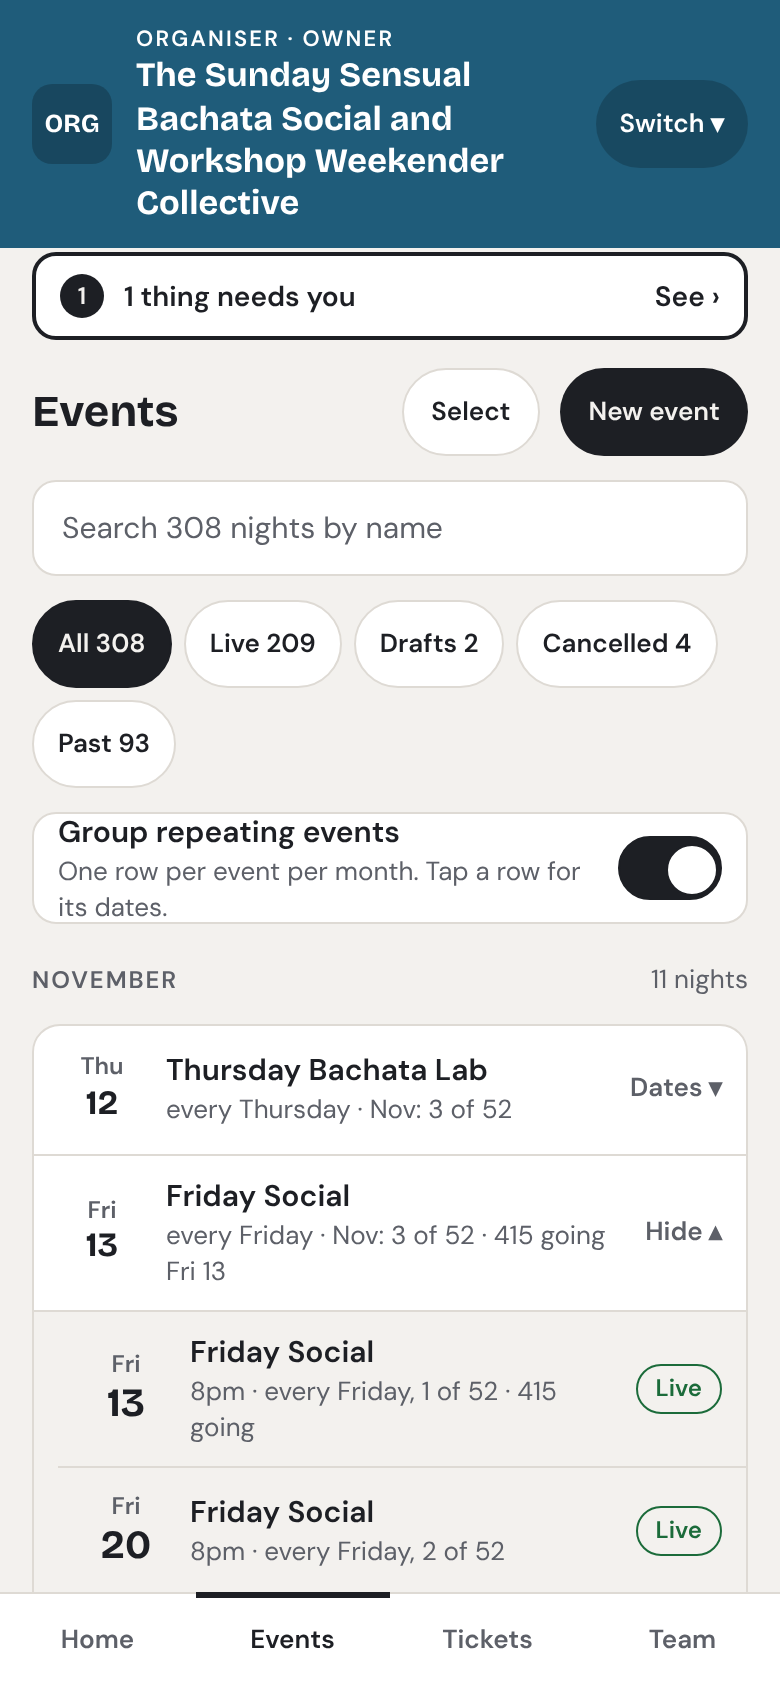
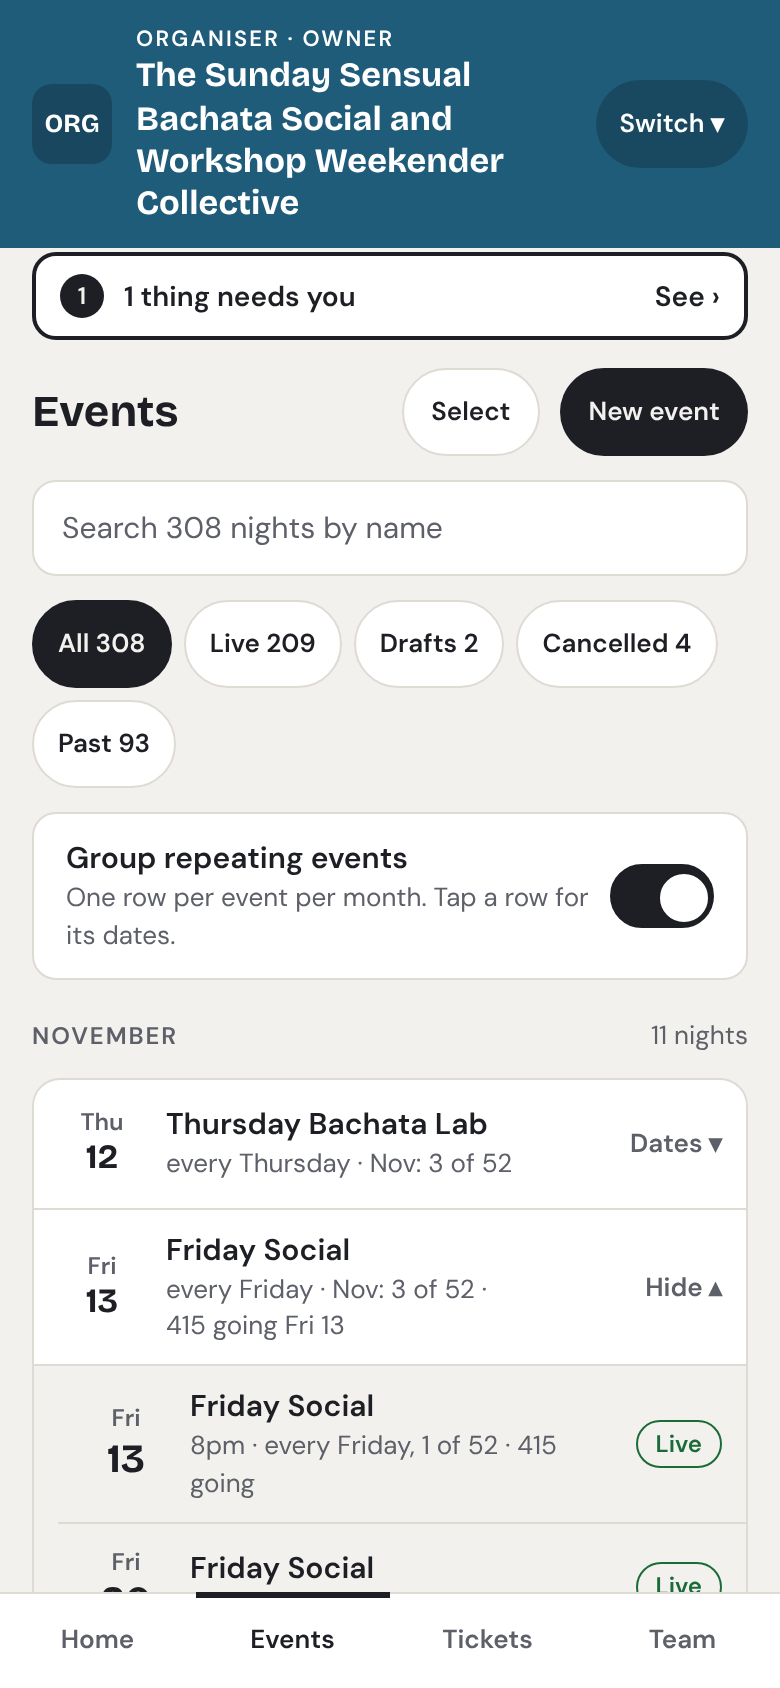
docs(organiser-events): review fix round 2 (skip copy, disabled rows, switch card, handover) [worker-done dt_c1e51759c3d8]
Claude-Session: https://claude.ai/code/session_01WoGkiBU8xE5ZGVAJc8VRA5

diff --git a/docs/design/profile-dash/organiser-events-option-a.html b/docs/design/profile-dash/organiser-events-option-a.html
@@ -50,6 +50,8 @@ h1{font:700 20px var(--f-display);margin:0}
 .card{background:var(--card);border:1px solid var(--line);border-radius:14px}
 .row{display:flex;align-items:center;gap:12px;padding:12px 14px;width:100%;min-height:56px}
 .row+.row{border-top:1px solid var(--line)}
+.row[disabled] .t b{color:var(--muted)}
+.row[disabled]>span[aria-hidden]{display:none}
 .t{display:flex;flex-direction:column;flex:1;min-width:0}
 .t b{font-size:15px;overflow-wrap:anywhere}.t span{font-size:13px;color:var(--muted);line-height:1.4;overflow-wrap:anywhere}
 .tag{font-size:12px;font-weight:600;border:1px solid var(--line);border-radius:999px;padding:3px 9px;color:var(--muted);white-space:nowrap;flex:none}
@@ -120,7 +122,7 @@ body.full .scroll{overflow:visible}
 .ser .dt b{font-size:17px}
 .ser .chev{font-size:13px;font-weight:600;color:var(--muted);flex:none}
 .serin{border-top:1px solid var(--line);background:var(--bg);padding-left:12px}
-.toggle{display:flex;align-items:center;gap:10px;width:100%;min-height:56px;padding:6px 12px;border:1px solid var(--line);border-radius:12px;background:var(--card)}
+.toggle{flex:none;display:flex;align-items:center;gap:10px;width:100%;min-height:56px;padding:12px 16px;border:1px solid var(--line);border-radius:12px;background:var(--card)}
 .toggle .switch[aria-hidden]{pointer-events:none}
 .toggle[aria-checked=true] .switch{background:var(--fg);border-color:var(--fg)}
 .toggle[aria-checked=true] .switch::after{left:23px;border-color:var(--fg)}
@@ -359,7 +361,7 @@ function delSheet(){
   <button class="btn danger" data-act="dodel" data-k="${x.id}">Delete draft</button><button class="btn alt" data-act="close">Keep the draft</button>`;
 }
 const REASONS=['Venue problem','Not enough people','Illness','Weather','Other'];
-const SKIP_WHY={draft:'A draft is not on the calendar. Delete it instead if you do not need it.',cx:'Already cancelled.',past:'Already happened.'};
+const SKIP_WHY={draft:'A draft is not on the calendar. Open it and choose Delete draft.',cx:'Already cancelled.',past:'Already happened.'};
 // What a cancel would touch. Bulk = exactly the selected live nights. One repeating night = the scope picked.
 function cancelTargets(){
   if(S.of==='bulk'){const ns=S.sel.map(byId).filter(Boolean);return {go:ns.filter(x=>x.st==='live'),skip:ns.filter(x=>x.st!=='live')}}
@@ -505,7 +507,7 @@ function needsLine(ns){
 // One row per repeating event per month: "Friday Social, every Friday, Nov: 3 of 52". Opens to show those dates.
 function serRow(it){
   const x0=it.ns[0],se=SERIES[it.rec],cx=it.ns.filter(y=>y.st==='cx').length,open=S.open.includes(it.k),nx=it.ns.find(y=>y.st==='live');
-  return `<button class="ev ser" data-act="ser" data-k="${it.k}" aria-expanded="${open}" aria-label="${se.n}, ${plural(it.ns.length,'date')} in ${MONL[dOf(x0.d).getUTCMonth()]}"><span class="dt" aria-hidden="true"><small>${dw(x0.d)}</small><b>${dd(x0.d)}</b></span><span class="t"><b>${se.n}</b><span>${se.rule} &middot; ${dm(x0.d)}: ${it.ns.length} of ${x0.of}${cx?` &middot; ${cx} cancelled`:''}${nx&&nx.go?` &middot; ${fmt(nx.go)} going ${dw(nx.d)} ${dd(nx.d)}`:''}</span></span><span class="chev">${open?'Hide &#9652;':'Dates &#9662;'}</span></button>${open?`<div class="serin">${it.ns.map(evRow).join('')}</div>`:''}`;
+  return `<button class="ev ser" data-act="ser" data-k="${it.k}" aria-expanded="${open}" aria-label="${se.n}, ${plural(it.ns.length,'date')} in ${MONL[dOf(x0.d).getUTCMonth()]}"><span class="dt" aria-hidden="true"><small>${dw(x0.d)}</small><b>${dd(x0.d)}</b></span><span class="t"><b>${se.n}</b><span>${se.rule} &middot; ${dm(x0.d)}: ${it.ns.length} of ${x0.of}${cx?` &middot; ${cx} cancelled`:''}${nx&&nx.go?` &middot; <span style="white-space:nowrap">${fmt(nx.go)} going ${dw(nx.d)} ${dd(nx.d)}</span>`:''}</span></span><span class="chev">${open?'Hide &#9652;':'Dates &#9662;'}</span></button>${open?`<div class="serin">${it.ns.map(evRow).join('')}</div>`:''}`;
 }
 function eventsBody(ns){
   const inSel=!!S.sel,v=viewOnly();

diff --git a/docs/design/profile-dash/organiser-events.md b/docs/design/profile-dash/organiser-events.md
@@ -174,7 +174,8 @@ nights** (alternative 1).
   read this round: the fixes change layout and copy, not the data shapes). The 30-night grouping threshold is a design guess
   from that survey (8 organisers have 1 to 5 dates, 7 have 100+), not tested with organisers. Whether a failed bulk cancel can be
   reported per night, whether "this and after" and "whole series" cancel exist server-side, and what the cancel message really
-  sends are unconfirmed (careful lane 1-3). No app code changed, so there was no browser walk of a running route.
+  sends are unconfirmed (careful lane 1-3). Also unconfirmed: that a cancelled night "stays ... on your public page history" (option A, past-night banner) and that "Dancers see them on the calendar marked Cancelled" (all-cancelled line) match what the public site really shows. No app code changed, so there was no browser walk of a running route.
 - **Ship status (fix round 1):** PR #1582. tsc run on 971d4b9: 0 errors in branch files (the branch has no TS). Local CI steps that apply all
   passed: docs-only = true, `check:integrity`, `AUDIT_STRICT=1 check:images`, `lint:architecture`, `check-script-conventions`,
   `check:mojibake`, and both PR-body label checks (no Phone QA section: docs-only). No automerge label: the diff is over 400 lines.
+- **Fix round 2 (review fixes):** bulk-cancel skipped-draft row now says "Open it and choose Delete draft." (the bulk bar has no Delete); disabled sheet rows (`.row[disabled]`) have muted title, no chevron, reason text kept (min contrast 5.15); group-switch card no longer flex-shrunk (padding 12/16, was clipped in `huge`); series going-date kept together on its own line (`415 going Fri 13`, not split). Shots re-taken, 23/23 states pass (shot script wait raised 150 to 400 ms: the 0.18s sheet animation made tap-size checks flaky). Not verified: still no real phone.
